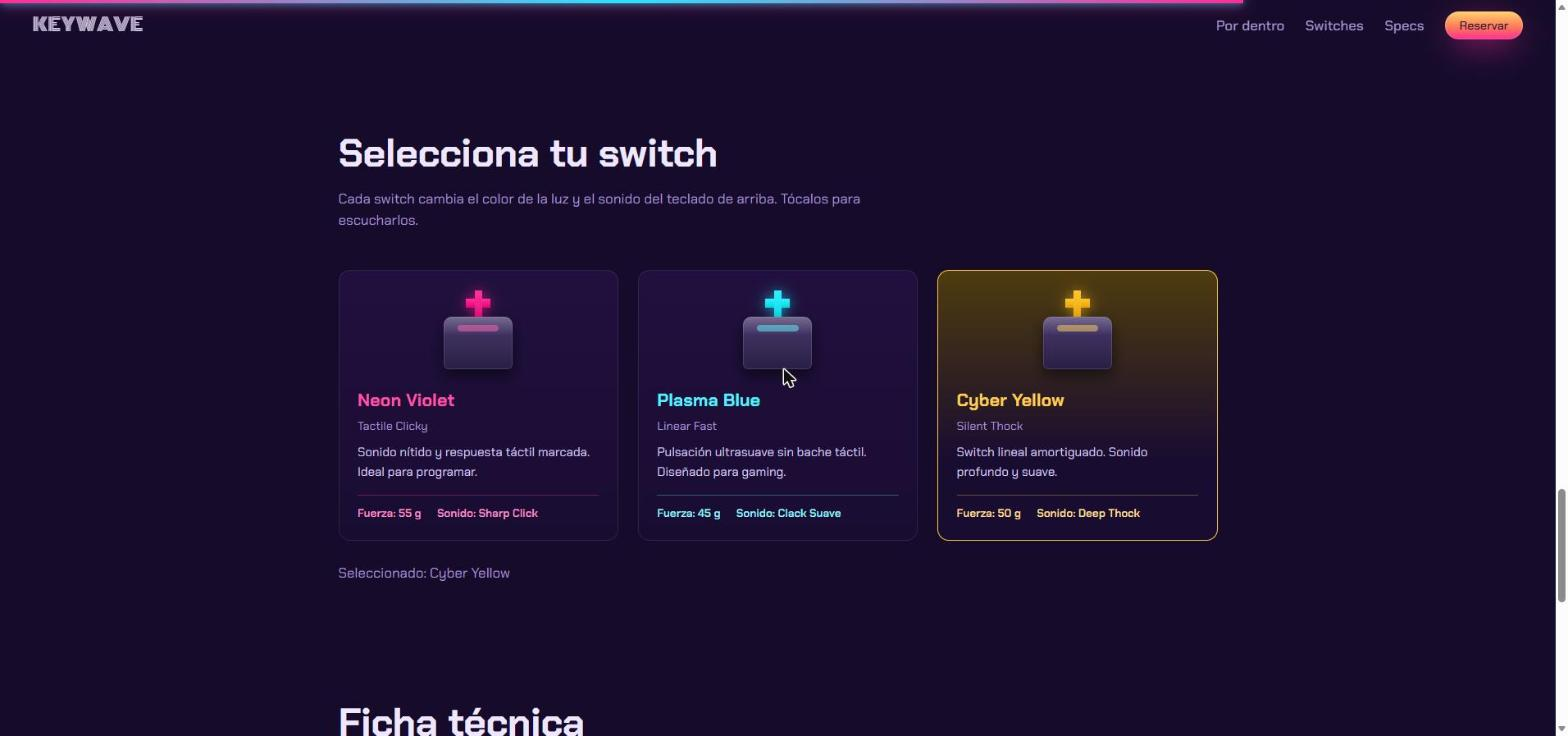
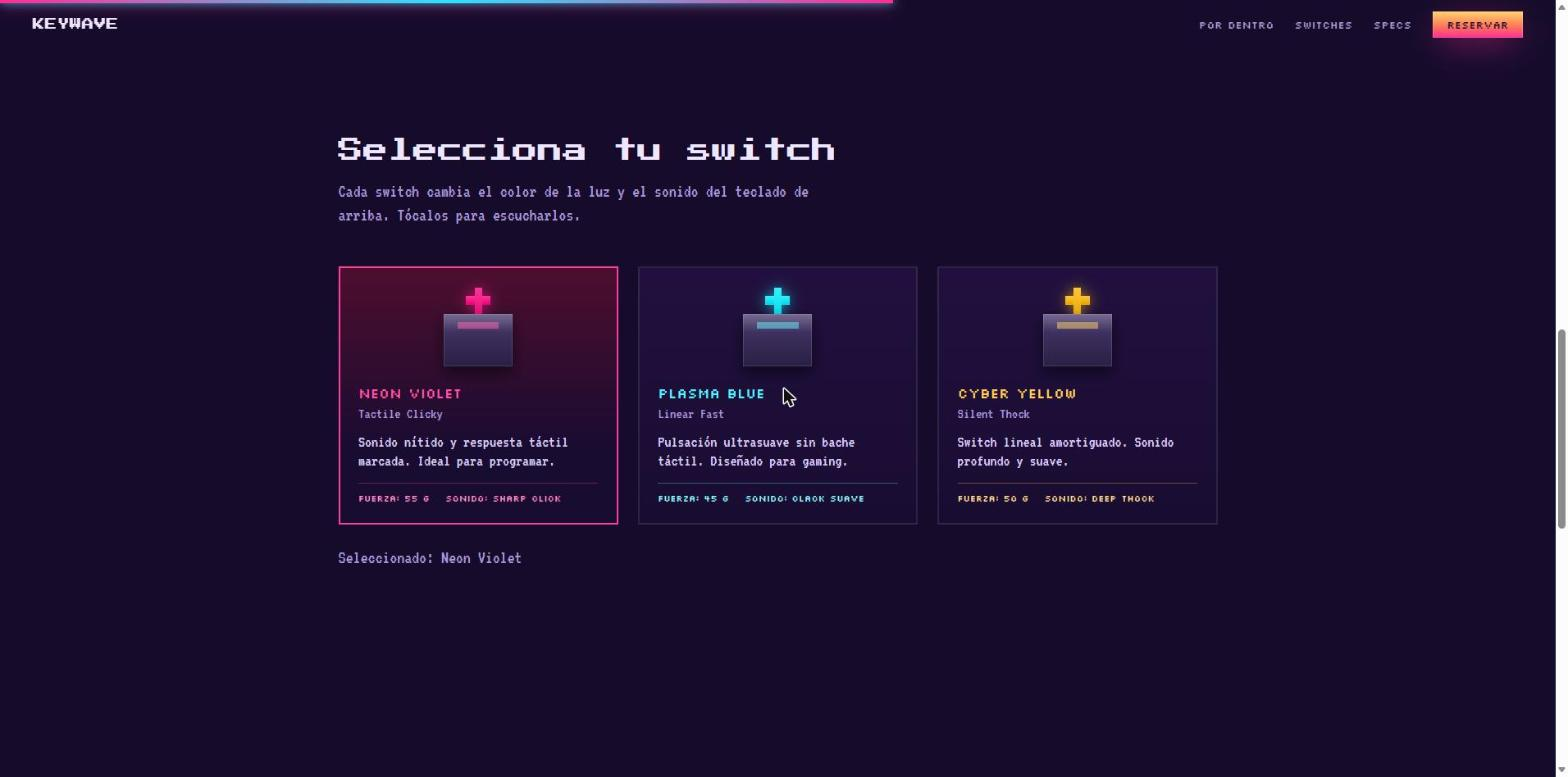
Tipografía pixel y selectores cuadrados (elegido entre 4 ejemplos)
- Press Start 2P para títulos, Silkscreen para botones, menú, etiquetas y
  leyendas de las teclas, y VT323 para el texto corrido
- Todos los selectores con esquinas rectas: modos, sonido, pausa,
  pantalla, botón Reservar, menú y tarjetas de switches
- Tamaños ajustados para que VT323 se lea bien y el título pixel llene
  el ancho en el celular
- Ejemplos de fuentes en docs/propuestas/fuentes/

diff --git a/css/style.css b/css/style.css
@@ -18,8 +18,10 @@
   --accent-h: 330;
   --accent: hsl(var(--accent-h) 100% 62%);
 
-  --display: "Monoton", "Chakra Petch", system-ui, sans-serif;
-  --body: "Chakra Petch", system-ui, sans-serif;
+  /* Tipografía pixel: títulos, interfaz (solo mayúsculas) y texto corrido */
+  --display: "Press Start 2P", monospace;
+  --ui: "Silkscreen", monospace;
+  --body: "VT323", monospace;
 
   /* unidad de tecla: el teclado mide ~16.8u de ancho */
   --u: clamp(19px, calc((100vw - 40px) / 16.8), 54px);
@@ -34,19 +36,19 @@ body {
   background: var(--night);
   color: var(--chrome);
   font-family: var(--body);
-  font-size: 1.0625rem;
-  line-height: 1.55;
+  font-size: 1.4rem;      /* VT323 es chica para su tamaño: se compensa aquí */
+  line-height: 1.3;
   -webkit-font-smoothing: antialiased;
   overflow-x: hidden;
 }
 
 h1, h2, h3 { margin: 0; line-height: 1.1; }
-h2 { font-size: clamp(1.9rem, 4.5vw, 3rem); font-weight: 700; letter-spacing: -0.01em; }
+h2 { font-family: var(--display); font-size: clamp(1.1rem, 2.6vw, 1.9rem); font-weight: 400; line-height: 1.35; }
 p { margin: 0; }
 
 a { color: inherit; }
 
-:focus-visible { outline: 2px solid var(--cyan); outline-offset: 3px; border-radius: 4px; }
+:focus-visible { outline: 2px solid var(--cyan); outline-offset: 3px; border-radius: 0; }
 
 .sr-only {
   position: absolute; width: 1px; height: 1px; overflow: hidden;
@@ -56,12 +58,12 @@ a { color: inherit; }
 /* ---------- Botones ---------- */
 .btn {
   display: inline-block;
-  font: 600 1.05rem/1 var(--body);
+  font: 400 .85rem/1 var(--ui);
   color: var(--night);
   background: linear-gradient(180deg, var(--sun-top), var(--sun-mid) 55%, var(--magenta));
   border: 0;
-  border-radius: 999px;
-  padding: 1rem 2rem;
+  border-radius: 0;
+  padding: 1rem 1.6rem;
   text-decoration: none;
   cursor: pointer;
   box-shadow: 0 0 0 1px #ffffff30 inset, 0 10px 40px -10px var(--magenta);
@@ -80,14 +82,14 @@ a { color: inherit; }
 }
 .nav.is-scrolled { background: #160b2bcc; backdrop-filter: blur(12px); }
 .nav__logo {
-  font-family: var(--display); font-size: 1.35rem; text-decoration: none;
+  font-family: var(--display); font-size: .9rem; text-decoration: none;
   color: var(--chrome); letter-spacing: .04em;
   transition: opacity .3s ease, visibility 0s;
 }
 /* el título del hero ya muestra la marca: el logo aparece al bajar */
 .nav:not(.con-logo) .nav__logo { opacity: 0; visibility: hidden; transition: opacity .3s ease, visibility 0s .3s; }
 .nav__links { display: flex; align-items: center; gap: 1.6rem; margin-left: auto; }
-.nav__links a { text-decoration: none; color: var(--muted); font-weight: 500; transition: color .2s; }
+.nav__links a { text-decoration: none; color: var(--muted); font-family: var(--ui); font-size: .8rem; transition: color .2s; }
 .nav__links a:hover { color: var(--chrome); }
 .nav__links .btn { color: var(--night); }
 .nav__toggle { display: none; }
@@ -176,9 +178,9 @@ a { color: inherit; }
 .hero__title {
   font-family: var(--display);
   font-weight: 400;
-  font-size: clamp(3rem, 10vw, 7.5rem);
-  line-height: .95;
-  letter-spacing: .02em;
+  font-size: clamp(1.6rem, 10.8vw, 3.4rem);
+  line-height: 1.2;
+  letter-spacing: 0;
   background: linear-gradient(180deg, #ffffff 0%, #ffd9f2 42%, var(--magenta) 52%, #7b2ff7 100%);
   -webkit-background-clip: text; background-clip: text;
   color: transparent;
@@ -186,15 +188,16 @@ a { color: inherit; }
   display: flex; align-items: flex-start; gap: .12em;
 }
 .hero__title span {
-  font-family: var(--body); font-weight: 700;
-  font-size: .32em; line-height: 1;
+  font-family: var(--display); font-weight: 400;
+  font-size: .42em; line-height: 1;
   margin-top: .35em;
   -webkit-text-stroke: 0;
 }
 .hero__lead {
   margin-top: 1rem;
   max-width: 34ch;
-  font-size: clamp(1.05rem, 2.2vw, 1.3rem);
+  font-size: clamp(1.4rem, 2.4vw, 1.7rem);
+  line-height: 1.15;
   color: #e3d6ff;
   text-shadow: 0 0 6px #160b2b, 0 0 18px #160b2bcc, 0 2px 12px #160b2b;
 }
@@ -209,16 +212,16 @@ a { color: inherit; }
   min-width: min(28rem, 90vw);
   max-width: 90vw;
   padding: .5rem 4.8rem;
-  border-radius: 10px;
+  border-radius: 0;
   background:
     repeating-linear-gradient(180deg, #ffffff07 0 1px, transparent 1px 3px),
     linear-gradient(180deg, #08030f, #130828);
-  border: 1px solid #ffffff17;
+  border: 2px solid #ffffff26;
   box-shadow:
     inset 0 0 22px hsl(var(--accent-h) 100% 50% / .14),
     inset 0 1px 0 #ffffff12,
     0 10px 28px #0009;
-  font: 500 1.05rem/1.3 var(--body);
+  font: 400 1.55rem/1.1 var(--body);
   color: hsl(var(--accent-h) 100% 80%);
   text-shadow: 0 0 10px hsl(var(--accent-h) 100% 60% / .85);
   overflow: hidden; white-space: pre;
@@ -249,7 +252,7 @@ a { color: inherit; }
 @keyframes caret { 50% { opacity: 0; } }
 .screen__ppm {
   position: absolute; right: .9rem; top: 50%; translate: 0 -50%;
-  font-size: .78rem; font-weight: 600; letter-spacing: .02em;
+  font-size: 1.1rem; letter-spacing: .02em;
   color: var(--muted); text-shadow: none;
   opacity: 0; transition: opacity .5s ease;
 }
@@ -371,14 +374,14 @@ a { color: inherit; }
 /* leyenda RGB: la letra es la luz; siempre de color y más brillante al iluminarse */
 .legend {
   position: relative;
-  font: 600 calc(var(--u) * .2)/1 var(--body);
+  font: 400 calc(var(--u) * .18)/1 var(--ui);
   color: hsl(var(--h) 100% calc(60% + var(--l) * 30%));
   text-shadow: 0 0 calc(var(--u) * (.1 + var(--l) * .35)) hsl(var(--h) 100% 55%);
   opacity: calc(.72 + var(--l) * .28);
   white-space: nowrap;
 }
 .key--alpha .cap { justify-content: center; align-items: center; padding: 0 0 calc(var(--u) * .1); }
-.key--alpha .legend { font-size: calc(var(--u) * .3); }
+.key--alpha .legend { font-size: calc(var(--u) * .26); }
 .key.is-down .cap {
   transform: translateY(calc(var(--u) * .055));
   box-shadow:
@@ -433,16 +436,16 @@ a { color: inherit; }
   flex: 1;
   display: grid; grid-template-columns: repeat(4, 1fr);
   padding: 4px;
-  border-radius: 999px;
+  border-radius: 0;
   background: #0b0418b8;
-  border: 1px solid #ffffff1f;
+  border: 2px solid #ffffff40;
   box-shadow: inset 0 1px 0 #ffffff0d;
 }
 /* indicador que se desliza al segmento elegido */
 .segmented__thumb {
   position: absolute; top: 4px; bottom: 4px; left: 4px;
   width: calc((100% - 8px) / 4);
-  border-radius: 999px;
+  border-radius: 0;
   background: hsl(var(--accent-h) 100% 66%);
   box-shadow: 0 0 18px hsl(var(--accent-h) 100% 60% / .5), inset 0 1px 0 #ffffff70;
   transform: translateX(calc(var(--i) * 100%));
@@ -451,9 +454,9 @@ a { color: inherit; }
 .mode {
   position: relative; z-index: 1;
   min-height: 44px; padding: 0 .4rem;
-  font: 600 .95rem/1 var(--body);
+  font: 400 .85rem/1 var(--ui);
   color: var(--muted);
-  background: none; border: 0; border-radius: 999px;
+  background: none; border: 0; border-radius: 0;
   cursor: pointer;
   transition: color .25s ease, transform .12s ease;
 }
@@ -469,7 +472,7 @@ a { color: inherit; }
   padding: 0;
   color: var(--muted);
   background: #0b0418b8;
-  border: 1px solid #ffffff1f; border-radius: 50%;
+  border: 2px solid #ffffff40; border-radius: 0;
   cursor: pointer;
   transition: color .2s ease, border-color .2s ease, transform .12s ease;
 }
@@ -539,7 +542,8 @@ a { color: inherit; }
   font: inherit; color: inherit;
   background: linear-gradient(180deg, #21103f, #190c31);
   border: 1px solid #ffffff17;
-  border-radius: 14px;
+  border-radius: 0;
+  border-width: 2px;
   cursor: pointer;
   transition: border-color .3s, transform .3s, background .3s;
 }
@@ -565,7 +569,7 @@ a { color: inherit; }
 }
 .switch__housing {
   position: absolute; left: 0; right: 0; bottom: 0; height: 64px;
-  border-radius: 10px 10px 6px 6px;
+  border-radius: 0;
   background:
     linear-gradient(180deg, #ffffff40, transparent 35%),
     linear-gradient(180deg, #4a3a6e, #2a1f45);
@@ -573,18 +577,18 @@ a { color: inherit; }
 }
 .switch__housing::after { /* ranura transparente */
   content: ""; position: absolute; left: 20%; right: 20%; top: 10px; height: 8px;
-  border-radius: 4px; background: hsl(var(--sw) 100% 70% / .5);
+  border-radius: 0; background: hsl(var(--sw) 100% 70% / .5);
 }
 .switch-card.is-pressing .switch__stem { transform: translateY(14px); }
-.switch__name { font-size: 1.35rem; font-weight: 700; color: hsl(var(--sw) 100% 66%); }
-.switch__tipo { font-size: .9rem; color: var(--muted); margin-top: -.2rem; }
-.switch__desc { color: #d9cbf5; font-size: .95rem; margin-top: .3rem; }
+.switch__name { font-family: var(--ui); font-size: 1.05rem; color: hsl(var(--sw) 100% 66%); }
+.switch__tipo { font-size: 1.15rem; color: var(--muted); margin-top: -.2rem; }
+.switch__desc { color: #d9cbf5; font-size: 1.25rem; line-height: 1.15; margin-top: .3rem; }
 .switch__datos {
   display: flex; flex-wrap: wrap; gap: .3rem 1.2rem;
   margin-top: .6rem; padding-top: .7rem;
   border-top: 1px solid hsl(var(--sw) 100% 62% / .35);
   width: 100%;
-  font-size: .85rem; font-weight: 600;
+  font-family: var(--ui); font-size: .7rem;
   color: hsl(var(--sw) 100% 78%);
 }
 .switch-estado { margin-top: 1.6rem; color: var(--muted); }
@@ -619,7 +623,7 @@ a { color: inherit; }
     max-width: 1400px;
     text-align: left;
   }
-  .hero__title    { grid-area: titulo; align-self: end; justify-content: flex-start; white-space: nowrap; font-size: clamp(2.6rem, 4.2vw, 5.2rem); }
+  .hero__title    { grid-area: titulo; align-self: end; justify-content: flex-start; white-space: nowrap; font-size: clamp(1.7rem, 3vw, 3.4rem); }
   .hero__lead     { grid-area: lead; max-width: 26ch; text-shadow: none; color: #d9ccf5; }
   .screen         { grid-area: pantalla; justify-self: start; justify-content: flex-start; width: 100%; min-width: 0; max-width: 28rem; padding: .5rem 1.2rem; }
   .screen__ppm    { display: none; }
@@ -641,7 +645,7 @@ a { color: inherit; }
   .nav__toggle {
     display: grid; gap: 5px; place-content: center;
     width: 44px; height: 44px; margin-left: auto;
-    background: #0b041899; border: 1px solid #ffffff22; border-radius: 10px;
+    background: #0b041899; border: 2px solid #ffffff40; border-radius: 0;
     cursor: pointer;
   }
   .nav__toggle span {
@@ -679,7 +683,7 @@ a { color: inherit; }
   .screen { padding: .5rem 1rem; margin-top: max(1.2rem, calc(54.8svh - 283px)); }
   .screen__ppm { display: none; }
   .hero__controls { width: 100%; }
-  .mode { font-size: .9rem; }
+  .mode { font-size: .72rem; }
 }
 
 

diff --git a/index.html b/index.html
@@ -8,7 +8,7 @@
   <link rel="icon" href="assets/favicon.svg" type="image/svg+xml">
   <link rel="preconnect" href="https://fonts.googleapis.com">
   <link rel="preconnect" href="https://fonts.gstatic.com" crossorigin>
-  <link href="https://fonts.googleapis.com/css2?family=Chakra+Petch:wght@400;500;600;700&family=Monoton&display=swap" rel="stylesheet">
+  <link href="https://fonts.googleapis.com/css2?family=Press+Start+2P&family=Silkscreen&family=VT323&display=swap" rel="stylesheet">
   <link rel="stylesheet" href="css/style.css">
 </head>
 <body>

diff --git a/docs/revision-diseno-hero.md b/docs/revision-diseno-hero.md
@@ -67,8 +67,10 @@ elemento no se podía usar cómodamente, y en un texto ilegible sobre el sol.
 - El motor de luz por ondas como único elemento protagonista; todo lo demás está en segundo plano.
 - La luz como feedback inmediato y breve de cada tecla (`motion.md › Providing feedback`:
   "Aim for brevity and precision in feedback animations").
-- Dos familias tipográficas: Monoton solo para la marca y Chakra Petch para todo lo demás
-  (`typography.md`: "Minimize the number of typefaces you use").
+- Tipografía pixel con un rol claro para cada fuente: Press Start 2P para títulos, Silkscreen
+  (solo mayúsculas) para botones y etiquetas, y VT323 para el texto corrido, que necesita leerse
+  (`typography.md`: "Minimize the number of typefaces you use"). VT323 es chica para su tamaño, así
+  que el texto base sube a 1,4rem.
 - Un color de acento con un solo significado: el switch elegido (`color.md`:
   "Avoid using the same color to mean different things").
 

diff --git a/README.md b/README.md
@@ -59,6 +59,9 @@ delante del sol. En el celular queda en una columna. Las capturas de las 4 está
 Para el teclado se compararon 4 estilos (Cristal, Negro RGB, Blanco perla, Retro 80s) y 3 ángulos;
 se eligió **Negro RGB, de frente**: teclas negro mate con leyendas que brillan del color de la luz.
 Comparación en [docs/propuestas/teclado/](docs/propuestas/teclado/).
+Para la tipografía se probaron 4 combinaciones y se eligió **pixel arcade**: Press Start 2P (títulos),
+Silkscreen (botones y etiquetas) y VT323 (texto), con selectores de esquinas rectas.
+Ejemplos en [docs/propuestas/fuentes/](docs/propuestas/fuentes/).
 
 ## Estructura
 
